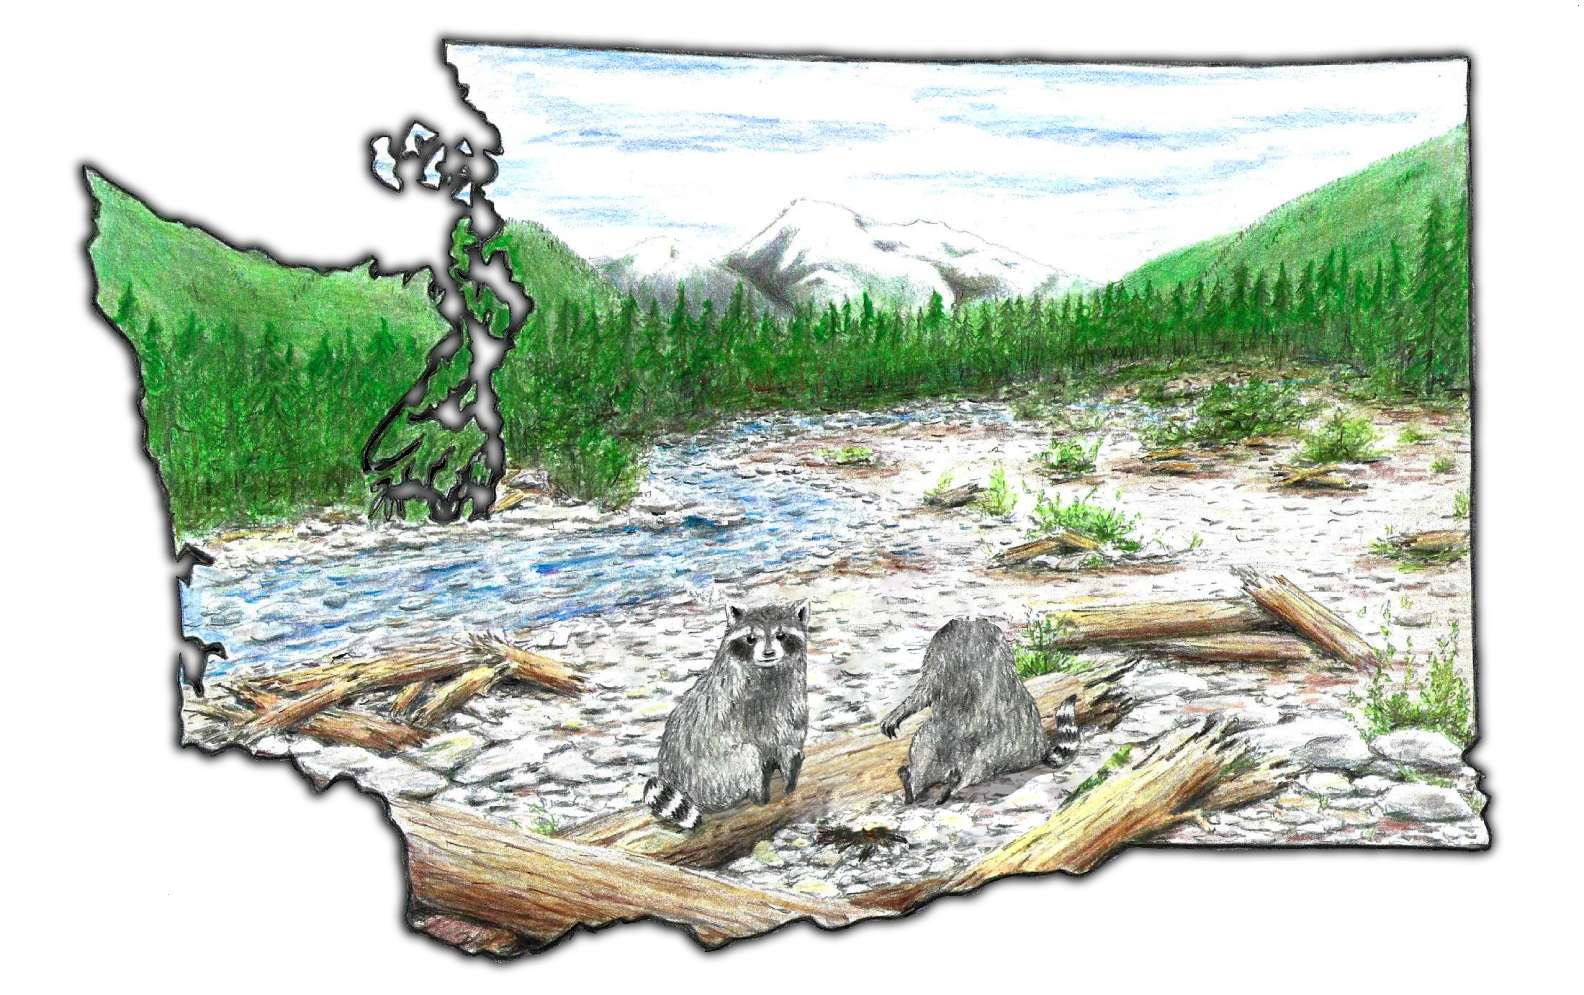
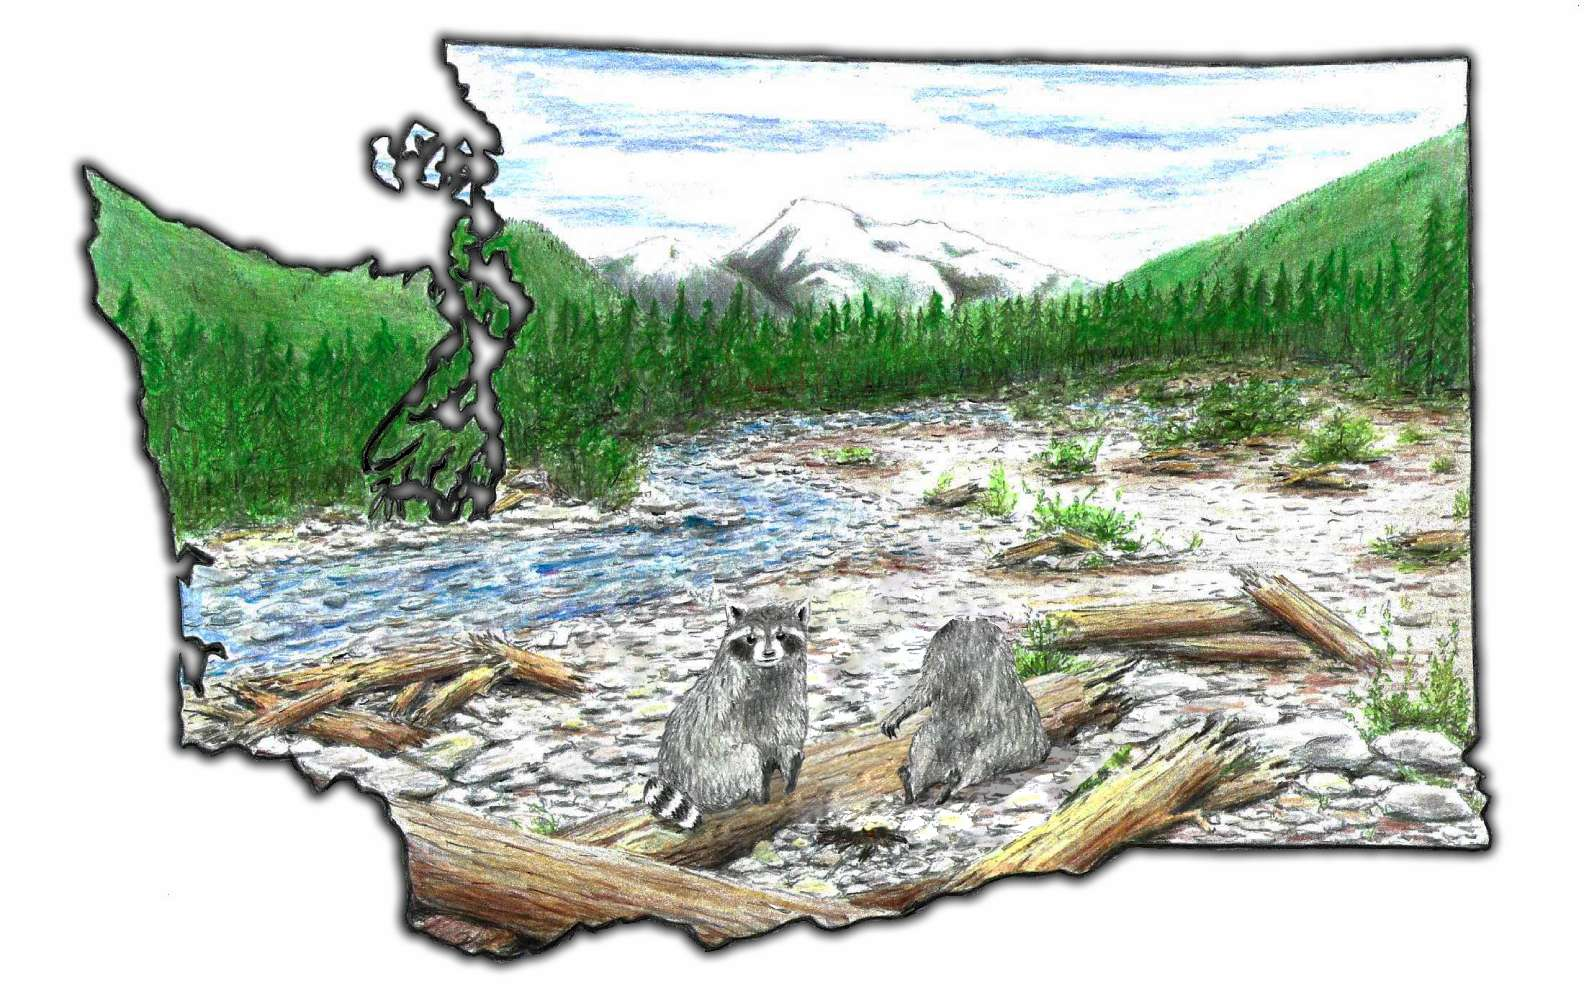
all working, wave hand needs adjustments for resizing

diff --git a/src/core/animation/Animation.scss b/src/core/animation/Animation.scss
@@ -4,15 +4,15 @@
 }
 
 svg.animation {
-	max-width: 1200px;
+	max-width: 1000px;
     position: absolute;
-    top: 0;
+    top: -21px;;
 }
 
 .backdrop-container {
-    top: 0;
+    top: -21px;
     position: absolute;
-    max-width: 1200px;
+    max-width: 1000px;
 }
 
 /********** FIRE Animation**********/
@@ -29,9 +29,9 @@ $partSize: 5em;
     filter: blur(0.02em);
     -webkit-filter: blur(0.02em);
     position: relative;
-    width: 7em;
+    width: 3vw;
     margin-left: 9%;
-    margin-top: 51.7%;
+    margin-top: 51%;
 }
 .particle {
 	animation: rise $dur ease-in infinite;
@@ -64,53 +64,53 @@ $partSize: 5em;
 		transform: translateY(-10em) scale(0);
 	}
 }
-@media screen and (min-width: 1200px){
+@media screen and (min-width: 1000px){
 	.fire {
-		font-size: 6px;
-		margin-left: 109px;
-		margin-top: 621px;
+		font-size: 5px;
+		margin-left: 87px;
+		margin-top: 512px;
 	}
 }
 @media screen and (max-width: 900px){
 	.fire {
-		margin-top: 51.3%;
+		margin-top: 51%;
+	}
+}
+@media screen and (max-width: 800px){
+	.fire {
+		margin-top: 50.4%;
 	}
 }
 @media screen and (max-width: 600px){
 	.fire {
-		margin-top: 50.3%;
+		margin-top: 49.6%;
 	}
 }
 @media screen and (max-width: 500px){
 	.fire {
-		margin-top: 50%;
+		margin-top: 48.7%;
 	}
 }
 @media screen and (max-width: 400px){
 	.fire {
-		margin-top: 49%;
+		margin-top: 47.9%;
 	}
 }
-@media screen and (max-width: 300px){
-	.fire {
-		margin-top: 48%;
-	}
-}
-@media screen and (max-width: 200px){
+@media screen and (max-width: 350px){
 	.fire {
 		margin-top: 47%;
 	}
 }
-
-
-
-
-
+@media screen and (max-width: 300px){
+	.fire {
+		margin-top: 46%;
+	}
+}
 
 /* Stick Arm! */
 
 use#stickArm{
-    animation-duration: 3s;
+    animation-duration: 2s;
     animation-name: stickArm;
     animation-iteration-count: infinite;
     animation-direction: alternate;
@@ -146,7 +146,7 @@ use#head{
 
 /* Arm2nd */
 use#stick2nd{
-    animation-duration: 4s;
+    animation-duration: 3s;
 
     animation-name: stick2nd;
 	-webkit-animation-name: stick2nd;
@@ -165,18 +165,60 @@ use#stick2nd{
 		}
   }
 
+//   Tail Waving
+use#tail{
+    animation-duration: 1s;
+
+    animation-name: tail;
+	-webkit-animation-name: tail;
+
+    animation-iteration-count: infinite;
+    animation-direction: alternate;
+}
+@keyframes tail {
+    from {
+        transform: scaleX(1);
+    }
   
+    to {
+        transition: all 5s ease;
+		transform: translateX(-89px) translateY(134px) rotate(-7deg);
+		}
+  }
+
+
   /* Wave Arm on hover */
-use#waveArm{
-	transition: all 1s ease;
+.arm{
+	transition: all .8s ease;
 }
 
-
-use#hover:hover use#waveArm{
-    animation-duration: 1s;
-	-webkit-animation-duration: 1s;
+.arm-wave:hover .arm{
 	-webkit-animation-fill-mode: forwards; /* Safari 4.0 - 8.0 */
 	animation-fill-mode: forwards;
 
-	transform: translateX(145px) translateY(-141px) rotate(10deg);
+	transform: translateX(2px) translateY(-22px) rotate(20deg);
+	-webkit-transform: translateX(2px) translateY(-22px) rotate(20deg);
 }
+
+.arm-wave{
+	margin-top: 36.5vw;
+    margin-left: 40.4vw;
+    width: 15.4vw;
+}
+
+.arm-wave-container{
+	max-width: 1000px;
+    width: 100%;
+    margin: 0 auto;
+    position: absolute;
+}
+
+@media screen and (min-width: 1000px){
+	.arm-wave {
+		margin-top: 363.1px;
+		margin-left: 401px;
+		width: 158.4px;
+	}
+}
+
+

diff --git a/src/core/animation/Animation.js b/src/core/animation/Animation.js
@@ -3,19 +3,28 @@ import "./Animation.scss";
 import {ReactComponent as RacoonSVG} from './racoonAnimation.svg';
 import Fire from './fireAnimation'
 
-const Animation = () => (
-  <div className='img-layout-container' viewBox="0 0 1584 995">
+const Animation = () => {
+  return(
+    <div className='img-layout-container'>
       <div className="backdrop-container">
         <img
           className="backdrop" 
           src="images/backdrop.jpg"
-          alt="title product"
-        ></img>
+          alt="title product"/>
       </div>
       <Fire />
       <RacoonSVG />
-      
-  </div>
-)
+      <div className='arm-wave-container'>
+        <div className='arm-wave'>
+          <img 
+            className="arm" 
+            src="images/arm.png"
+            alt="arm wave from racoon"/>
+        </div>
+      </div>
+    </div>
+  )
+ 
+}
 
 export default Animation

diff --git a/src/core/layout/Layout.js b/src/core/layout/Layout.js
@@ -32,7 +32,7 @@ const Layout = ({
                             ></img>
                         </Link>
                         )
-                    };
+                    }
 
                     {animation && (
                             <Animation />
